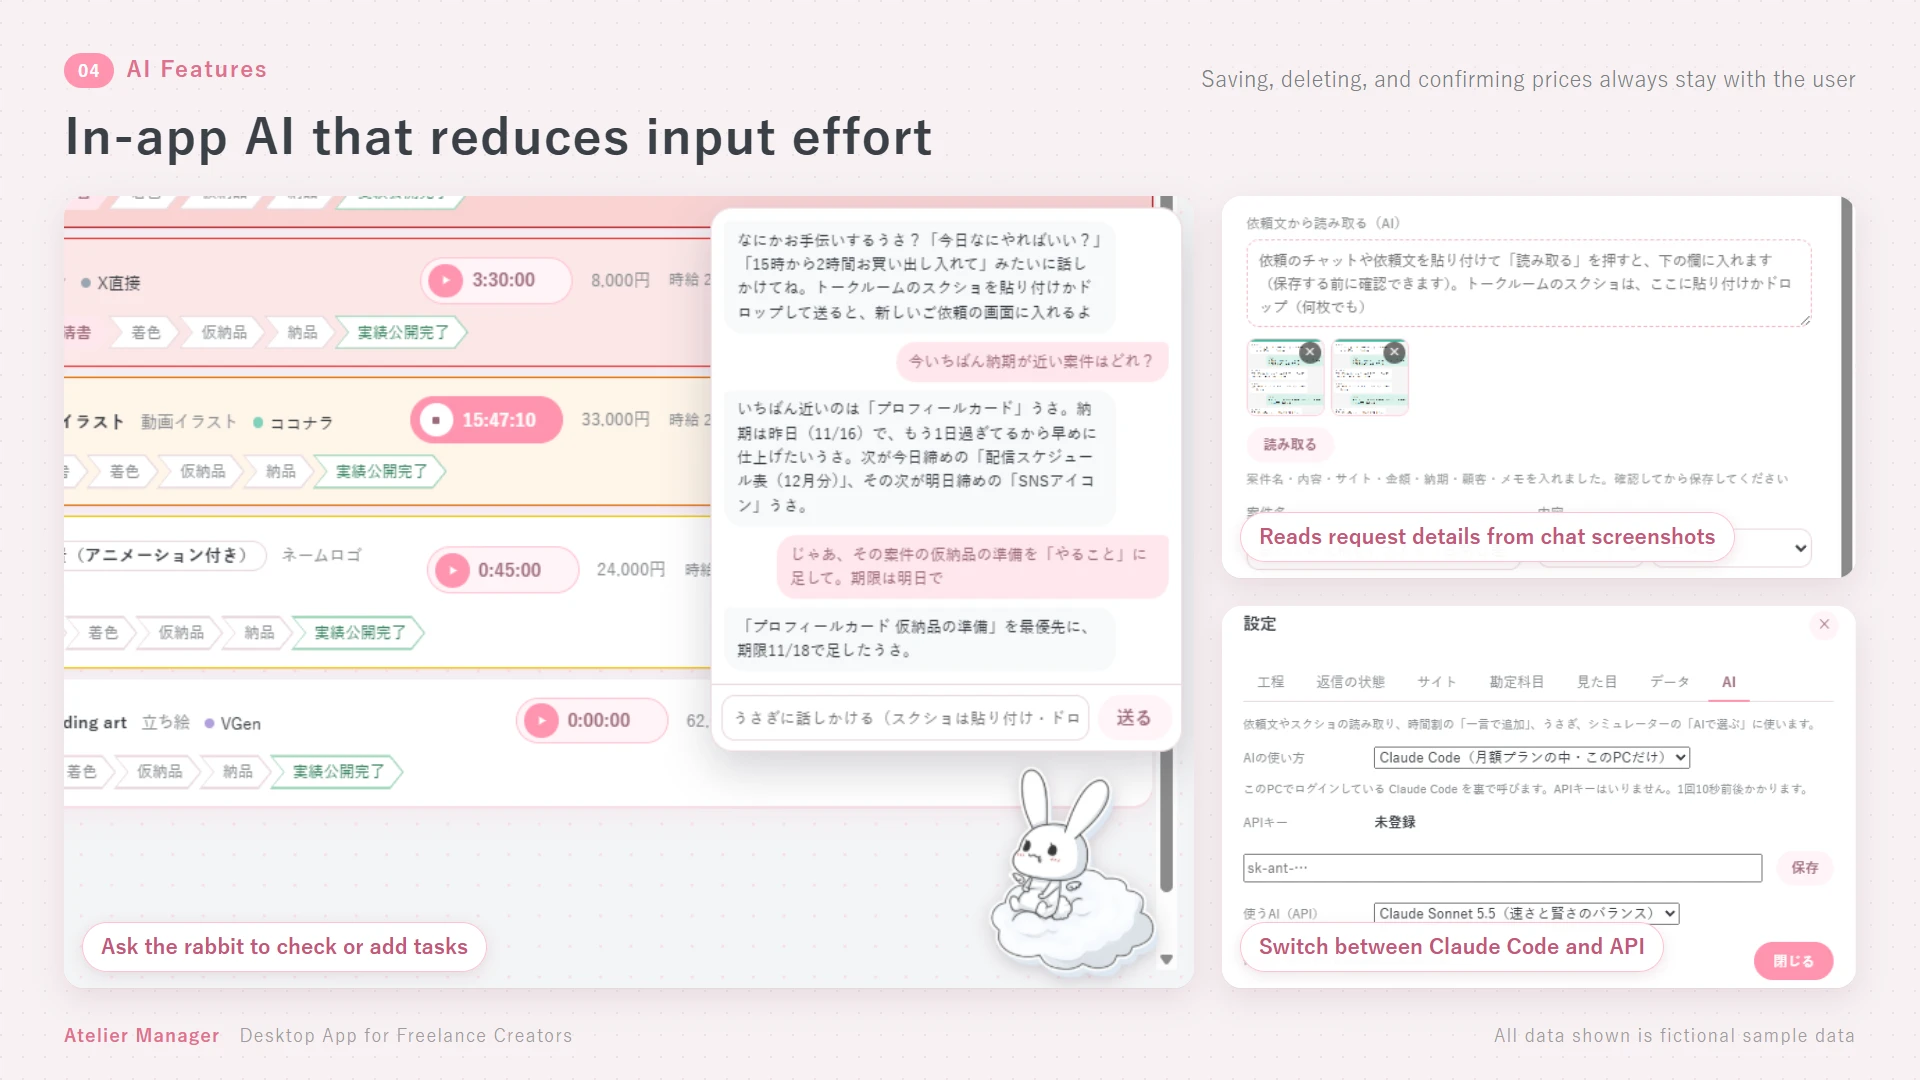
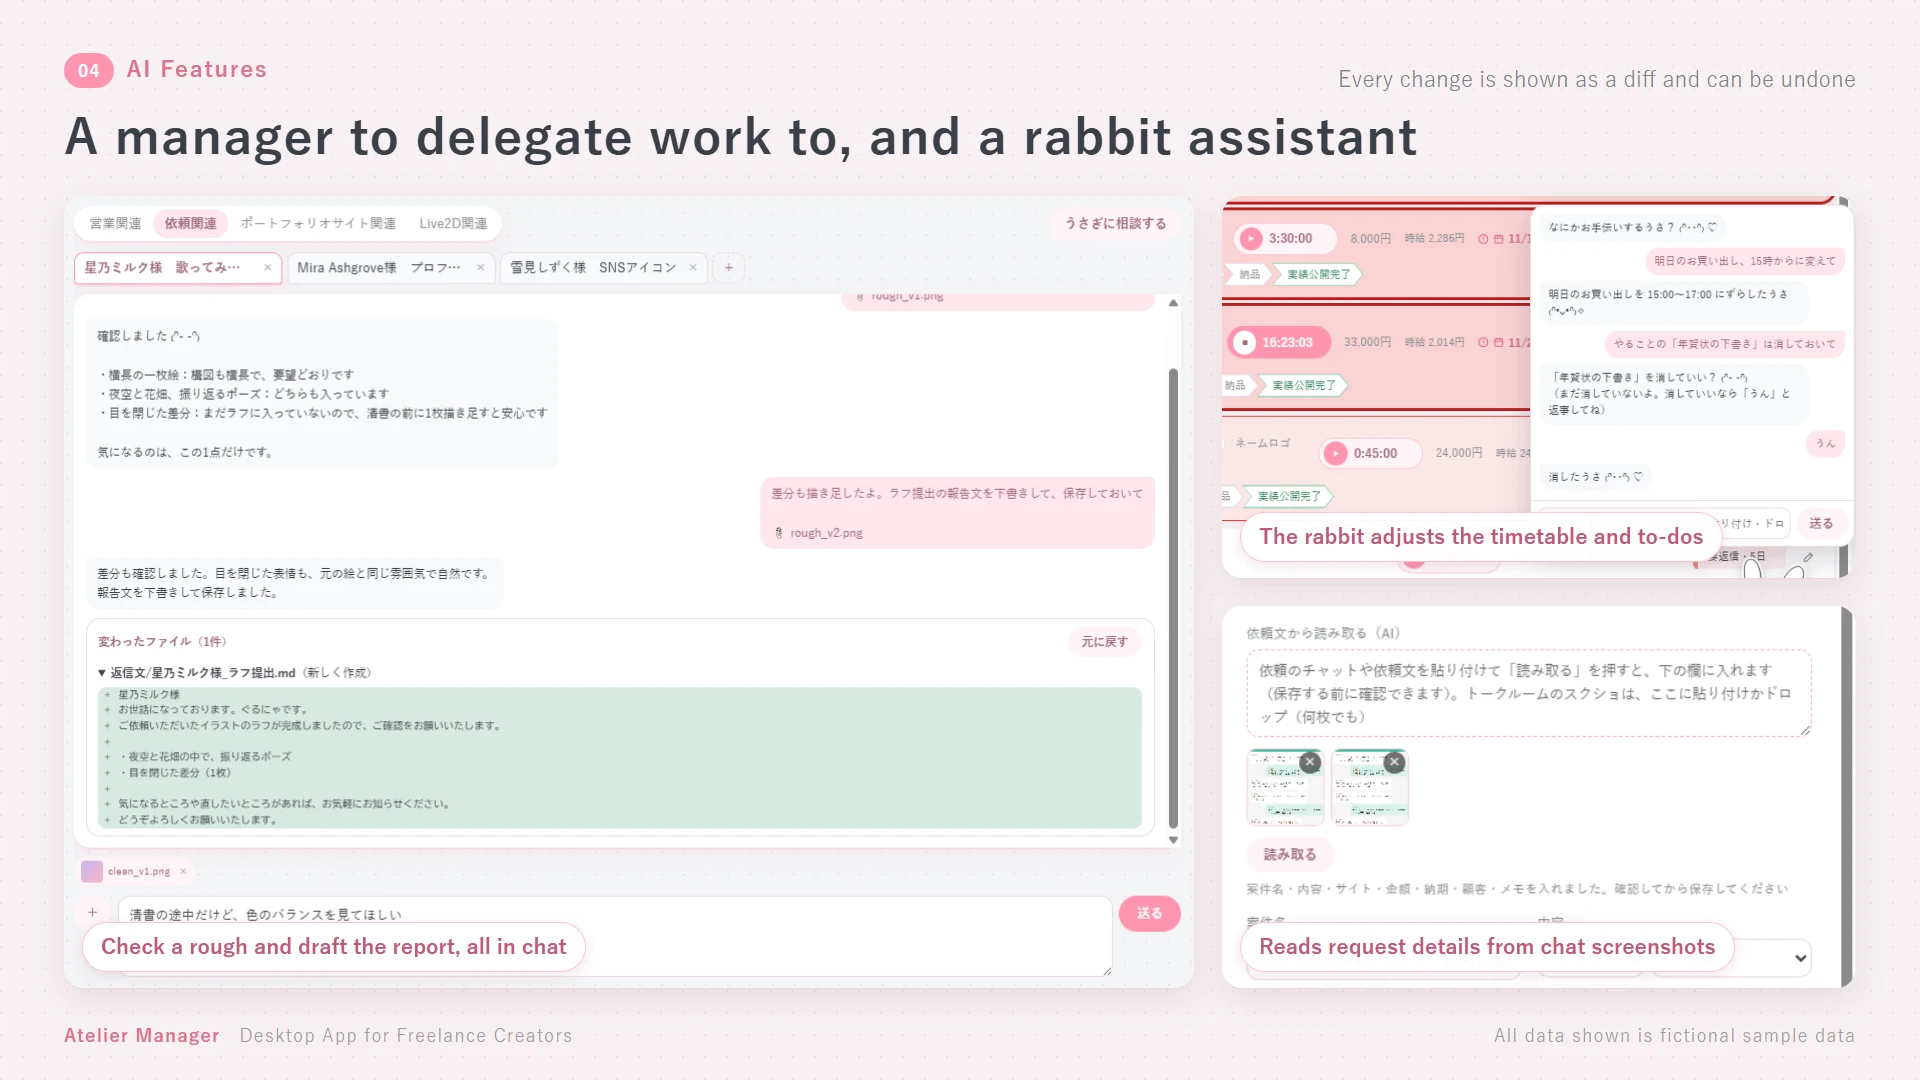
Atelier Manager：紹介画像04を「マネージャーに相談する」中心に作り直し、説明文を更新（日英仏）

diff --git a/assets/js/design.js b/assets/js/design.js
@@ -3863,7 +3863,8 @@
             <li>納期までの日数でカードの色が段階的に変わり、優先度がひと目で分かる</li>
             <li>月ごとの案件スケジュールと生活リズム（睡眠・運動・集中しやすい時間帯）から、1日の時間割を自動で作成。案件は1件ずつ進め、休憩は強制しない</li>
             <li>円グラフの時間割は、クリックで選んで端をドラッグで時間を調整、外へドラッグで削除できる直感的な操作</li>
-            <li>AIは「入力の手間を減らす」役割に限定。依頼文やトークルームのスクリーンショットの読み取り、一言での予定追加、料金シミュレーターの自動選択を行い、保存・削除・金額の確定は必ず本人が行う設計</li>
+            <li>AIは入力の手間を減らすアシスタントとして組み込み。依頼文やトークルームのスクリーンショットの読み取り、一言での予定追加、料金シミュレーターの自動選択に加え、うさぎに話しかけて時間割・やることを手直しできる。消す前には必ず確認を取り、案件・クライアント・金額は本人だけが変更できる設計</li>
+            <li>「マネージャーに相談する」では、営業・依頼・ポートフォリオサイト・Live2D の作業を、相談先とクライアントごとのタブに分けて、会話しながら頼める。ファイルの送付（貼り付け・ドロップ）に対応し、変更は差分で確かめていつでも元に戻せる。サイトの公開は、内容を確認してからボタンで行う</li>
             <li>AIの実行方法を API／Claude Code で切り替え可能。APIキーはOSの暗号化機能で端末内にのみ保存</li>
             <li>データはローカルに保存し、自動バックアップと、外部からの書き換えの検知で消失を防止</li>
           </ul>
@@ -3881,7 +3882,7 @@
           <div class="mwork__note">
             <dl>
               <dt>使用技術</dt><dd>Electron / electron-builder / JavaScript / HTML / CSS / SVG / safeStorage / JSON / Git</dd>
-              <dt>AI機能の連携</dt><dd>Anthropic SDK / Claude Code CLI（アプリ内の読み取り・うさぎ機能で使用）</dd>
+              <dt>AI機能の連携</dt><dd>Anthropic SDK / Claude Code CLI（読み取り・うさぎ・マネージャーに相談する で使用）</dd>
               <dt>制作範囲</dt><dd>企画 / UI・UX設計 / フロントエンド実装 / デスクトップアプリ化 / AI連携</dd>
             </dl>
           </div>
@@ -3901,7 +3902,8 @@
             <li>Request cards change color step by step as deadlines approach, making priorities clear at a glance</li>
             <li>Automatically builds a daily timetable from the monthly project schedule and personal rhythm (sleep, exercise, peak focus hours) — one project at a time, with no forced breaks</li>
             <li>Circular timetable with direct manipulation: click to select, drag edges to adjust time, drag outside to remove</li>
-            <li>AI is limited to reducing input effort — reading request messages and chat screenshots, adding plans from a single sentence, and auto-selecting price simulator options. Saving, deleting, and confirming prices always stay with the user</li>
+            <li>AI is built in as an assistant that reduces input effort — reading request messages and chat screenshots, adding plans from a single sentence, and auto-selecting price simulator options, plus a rabbit assistant you can talk to for adjusting the timetable and to-dos. It always asks before deleting anything, and only the user can change projects, clients, and prices</li>
+            <li>"Ask the Manager" lets you delegate sales, client requests, portfolio site, and Live2D work through conversation, organized into tabs by category and by client. You can send files (paste or drop), every change is shown as a diff and can be undone, and the site is published with a button only after reviewing the changes</li>
             <li>Switchable AI engine (API / Claude Code); the API key is encrypted with the OS and stored only on the device</li>
             <li>Local data storage with automatic backups and detection of external file changes to prevent data loss</li>
           </ul>
@@ -3919,7 +3921,7 @@
           <div class="mwork__note">
             <dl>
               <dt>Tech</dt><dd>Electron / electron-builder / JavaScript / HTML / CSS / SVG / safeStorage / JSON / Git</dd>
-              <dt>AI Feature Integration</dt><dd>Anthropic SDK / Claude Code CLI (used for in-app reading and the rabbit assistant)</dd>
+              <dt>AI Feature Integration</dt><dd>Anthropic SDK / Claude Code CLI (used for reading, the rabbit assistant, and "Ask the Manager")</dd>
               <dt>Scope</dt><dd>Planning / UI &amp; UX design / Frontend / Desktop packaging / AI integration</dd>
             </dl>
           </div>
@@ -3939,7 +3941,8 @@
             <li>Les cartes de demande changent de couleur par étapes à l'approche de l'échéance, rendant les priorités visibles d'un coup d'œil</li>
             <li>Création automatique de l'emploi du temps quotidien à partir du planning mensuel des projets et du rythme personnel (sommeil, exercice, heures de concentration) — un projet à la fois, sans pauses imposées</li>
             <li>Emploi du temps circulaire à manipulation directe : cliquer pour sélectionner, glisser les bords pour ajuster l'heure, glisser vers l'extérieur pour supprimer</li>
-            <li>L'IA se limite à réduire la saisie — lecture des messages de demande et des captures d'écran de discussion, ajout de plans en une phrase, sélection automatique des options du simulateur de prix. L'enregistrement, la suppression et la validation des prix restent toujours entre les mains de l'utilisatrice</li>
+            <li>L'IA est intégrée comme une assistante qui réduit la saisie — lecture des messages de demande et des captures d'écran de discussion, ajout de plans en une phrase, sélection automatique des options du simulateur de prix, ainsi qu'un assistant lapin à qui l'on peut parler pour ajuster l'emploi du temps et les tâches. Elle demande toujours confirmation avant de supprimer, et seule l'utilisatrice peut modifier les projets, les clients et les montants</li>
+            <li>« Demander au manager » permet de confier par la conversation le travail commercial, les demandes des clients, le site portfolio et Live2D, organisé en onglets par catégorie et par client. On peut envoyer des fichiers (coller ou glisser-déposer), chaque modification s'affiche sous forme de différences et peut être annulée, et le site n'est publié par un bouton qu'après vérification</li>
             <li>Moteur d'IA commutable (API / Claude Code) ; la clé API est chiffrée par le système d'exploitation et stockée uniquement sur l'appareil</li>
             <li>Données stockées localement, avec sauvegardes automatiques et détection des modifications externes du fichier pour éviter toute perte</li>
           </ul>
@@ -3957,7 +3960,7 @@
           <div class="mwork__note">
             <dl>
               <dt>Technologies</dt><dd>Electron / electron-builder / JavaScript / HTML / CSS / SVG / safeStorage / JSON / Git</dd>
-              <dt>Intégration de l'IA</dt><dd>Anthropic SDK / Claude Code CLI (utilisés pour la lecture dans l'application et l'assistant lapin)</dd>
+              <dt>Intégration de l'IA</dt><dd>Anthropic SDK / Claude Code CLI (utilisés pour la lecture, l'assistant lapin et « Demander au manager »)</dd>
               <dt>Périmètre</dt><dd>Planification / Design UI &amp; UX / Frontend / Application de bureau / Intégration de l'IA</dd>
             </dl>
           </div>

diff --git a/assets/js/illust.js b/assets/js/illust.js
@@ -587,7 +587,7 @@
         <div class="mwork__divider"></div>
         <p class="illu-date">2026年 11月 制作</p>
         <p class="illu-desc">フリーランスのイラストレーター・デザイナーとして、依頼・制作・収支をひとつで管理するために設計したWindowsデスクトップアプリです。複数の受注サイトに散らばる依頼、納期、作業時間、手数料を一か所にまとめ、「今なにをすればいいか」がすぐ分かることを目指しました。実際の業務で毎日使いながら改善を続けています。</p>
-        <p class="illu-note">納期までの日数でカードの色が変わる依頼管理、生活リズムから組む1日の時間割、トークルームのスクリーンショットから依頼内容を読み取るAI機能、サイトごとの手数料を含めた収支の集計などを備えています。画面の依頼・顧客・金額はすべて架空のサンプルデータです。</p>
+        <p class="illu-note">納期までの日数でカードの色が変わる依頼管理、生活リズムから組む1日の時間割、トークルームのスクリーンショットから依頼内容を読み取るAI機能、サイトごとの手数料を含めた収支の集計などを備えています。「マネージャーに相談する」では、営業・依頼・サイト更新などの作業を、クライアントごとのタブで会話しながら頼めます。画面の依頼・顧客・金額はすべて架空のサンプルデータです。</p>
       </div>`,
       htmlEn: `<div class="mwork mwork--illu">
         <div class="illu-variants">
@@ -600,7 +600,7 @@
         <div class="mwork__divider"></div>
         <p class="illu-date">Created November 2026</p>
         <p class="illu-desc">A Windows desktop app I designed to manage requests, production, and income in one place as a freelance illustrator and designer. It brings together requests, deadlines, work hours, and platform fees scattered across multiple commission sites, so that "what to do now" is clear at a glance. I use it every day in my own work and keep improving it.</p>
-        <p class="illu-note">Features include request cards that change color as deadlines approach, a daily timetable built from personal rhythm, AI that reads request details from chat screenshots, and income tracking that accounts for each platform's fees. All requests, clients, and amounts shown are fictional sample data.</p>
+        <p class="illu-note">Features include request cards that change color as deadlines approach, a daily timetable built from personal rhythm, AI that reads request details from chat screenshots, and income tracking that accounts for each platform's fees. With "Ask the Manager," sales, client requests, and site updates can be delegated through conversation, in tabs organized by client. All requests, clients, and amounts shown are fictional sample data.</p>
       </div>`,
       htmlFr: `<div class="mwork mwork--illu">
         <div class="illu-variants">
@@ -613,7 +613,7 @@
         <div class="mwork__divider"></div>
         <p class="illu-date">Créé en novembre 2026</p>
         <p class="illu-desc">Une application de bureau Windows que j'ai conçue pour gérer en un seul endroit les demandes, la production et les revenus, en tant qu'illustratrice et designeuse indépendante. Elle rassemble les demandes, les échéances, les heures de travail et les frais de plateforme dispersés entre plusieurs sites de commande, afin que « ce qu'il faut faire maintenant » soit clair d'un coup d'œil. Je l'utilise chaque jour dans mon propre travail et continue de l'améliorer.</p>
-        <p class="illu-note">Parmi les fonctions : des cartes de demande qui changent de couleur à l'approche de l'échéance, un emploi du temps quotidien construit selon le rythme personnel, une IA qui lit les détails d'une demande à partir de captures d'écran de discussion, et un suivi des revenus tenant compte des frais de chaque plateforme. Toutes les demandes, clients et montants affichés sont des données d'exemple fictives.</p>
+        <p class="illu-note">Parmi les fonctions : des cartes de demande qui changent de couleur à l'approche de l'échéance, un emploi du temps quotidien construit selon le rythme personnel, une IA qui lit les détails d'une demande à partir de captures d'écran de discussion, et un suivi des revenus tenant compte des frais de chaque plateforme. Avec « Demander au manager », le travail commercial, les demandes des clients et les mises à jour du site peuvent être confiés par la conversation, dans des onglets organisés par client. Toutes les demandes, clients et montants affichés sont des données d'exemple fictives.</p>
       </div>`,
     },
     illust_wokka: {
